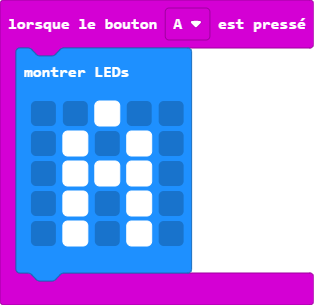
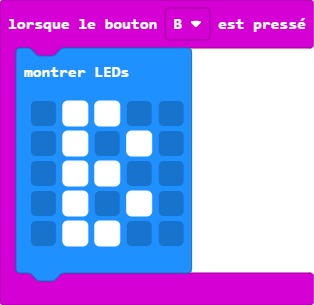
ajout lettre b

diff --git a/main.ts b/main.ts
@@ -7,6 +7,15 @@ input.onButtonPressed(Button.A, function () {
         . # . # .
         `)
 })
+input.onButtonPressed(Button.B, function () {
+    basic.showLeds(`
+        . # # . .
+        . # . # .
+        . # # . .
+        . # . # .
+        . # # . .
+        `)
+})
 basic.showLeds(`
     . . . . .
     . # . # .
